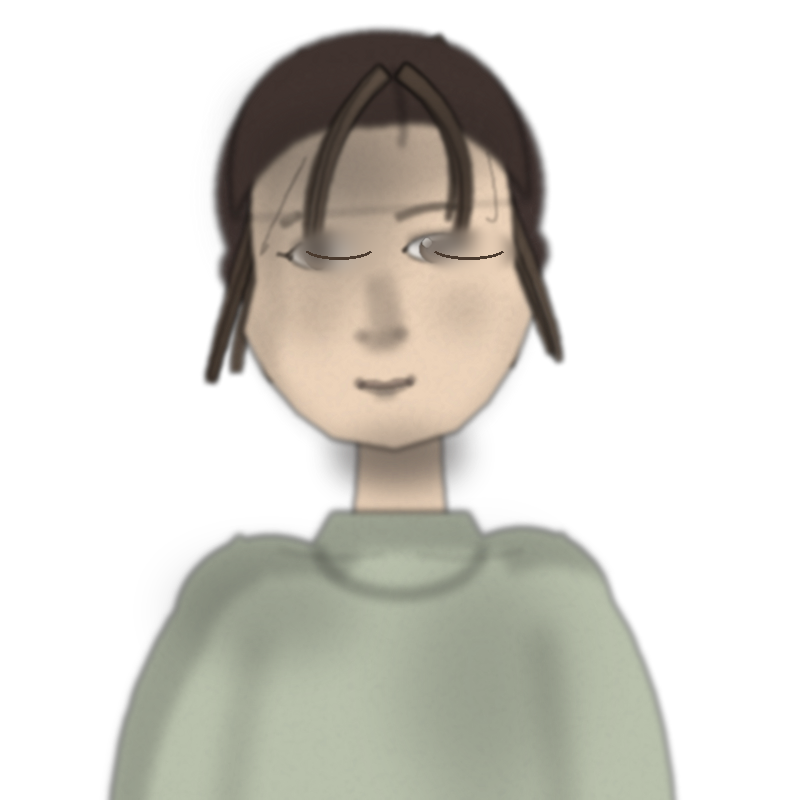
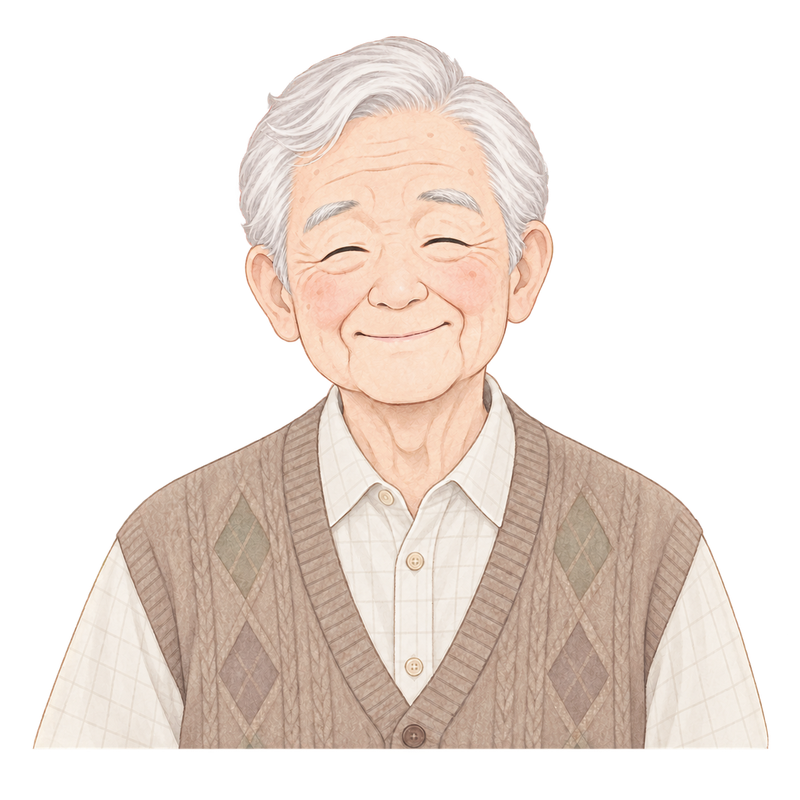
feat: customer-08を90代前半男性・ひ孫への出産祝いへ差し替え
- normal/blinkを、白髪・アーガイルベストのやさしい90代前半男性画像に
  差し替え。初回のキャンバス配置は右肩が800px枠ぎりぎりで切れていたため、
  customer-05のときと同様にオフセットを再調整（キャンバス中央基準の
  センタリングへ変更）。頭頂部・肩の切れなし、normal/blinkの位置・大きさ
  一致、瞬き時のガタつきなし、4季表示を確認済み。
- 画像に合わせて人物データを新設（①画像確定→②年齢・性別・生活背景固定→
  ③依頼設計 の順）。旧データ（そうたさん・20代・親友のお見舞い）を、
  しげるさん・90代前半・ひ孫への出産祝いに、に置き換え。customer-05
  （50代・娘を送り出す父親）とは世代・心情のトーンを明確に分けた。
- IMAGE_ASSETS.md §4の人物像列を新しいpersonaに合わせて更新。

Claude-Session: https://claude.ai/code/session_01NKV57SwEiDA72EkGzXeu8N

diff --git a/src/data/customers.ts b/src/data/customers.ts
@@ -360,43 +360,43 @@ export const CUSTOMERS: Customer[] = [
   },
   {
     id: 'customer-08',
-    name: 'そうたさん',
-    age: '20代',
-    persona: '入院中の親友のお見舞いに',
-    entrance: '何度か店の前を通り過ぎてから、意を決したように入ってきました。',
-    life: '学生時代からの親友が入院中。明日、面会に行くそうです。',
+    name: 'しげるさん',
+    age: '90代前半',
+    persona: 'おだやかで親しみやすい、ひ孫の誕生を楽しみにしている男性',
+    entrance: 'ゆっくりとした足取りで、にこにこと入ってきました。',
+    life: '来月、初めてのひ孫が生まれるそうです。',
     memo: [
-      '病室なので、香りの強すぎないものを。',
-      'あいつ、元気が出る花が好きなんです。',
+      '来月、ひ孫が生まれるんです。',
+      'その子への、初めての贈り物に。',
     ],
     lines: [
-      '入院している友人のところへ行くんです。',
-      '重たくならないように、でも元気が出るものがいいなと思って。',
-      '香りの強すぎないものにできますか。',
+      '来月、初めてのひ孫が生まれるんです。',
+      'その子への、初めての贈り物にしたくて。',
+      '赤ちゃんの部屋に飾れるような、やさしい花にできますか。',
     ],
-    purpose: 'お見舞い（親友へ）',
-    budget: 2200,
+    purpose: 'ひ孫への出産祝い',
+    budget: 2500,
     wish: {
-      impressions: ['gentle', 'bright'],
+      impressions: ['bright', 'gentle'],
       tones: ['warm', 'white'],
-      toneLabel: 'やさしくて、少し明るい色',
-      volume: 'small',
+      toneLabel: '赤ちゃんにも優しい、明るい色合い',
+      volume: 'medium',
     },
     reactions: {
       delighted: [
-        'これ、いいですね。あいつ、笑うと思います。',
-        'ありがとうございます。ちゃんと会ってきます。',
+        'おお、これはいい。……あの子への、いい贈り物になりそうです。',
+        'こんな年になっても、楽しみが増えるものですね。',
       ],
       happy: [
-        'やさしい感じですね。病室でも重たくならなそうです。',
-        'これなら、まっすぐ渡せそうです。',
+        'いいですねぇ。明るくて、気持ちが上がります。',
+        '赤ちゃんの部屋に置いても、良さそうです。',
       ],
       grateful: [
-        'ありがとうございます。持っていきますね。',
-        '相談に乗ってもらえて、落ち着きました。',
+        'ありがとうございます。初めての贈り物が、決まりました。',
+        'こうして選ぶのも、なかなか楽しいものですね。',
       ],
     },
-    farewell: '元気になったら、ふたりで寄りますね。',
+    farewell: 'また、ひ孫の顔でも見せに来ますね。',
   },
 ];
 

diff --git a/IMAGE_ASSETS.md b/IMAGE_ASSETS.md
@@ -177,7 +177,7 @@
 | `customer-05` | 家を出る娘を送り出す父親 |
 | `customer-06` | 上品でやさしい、旧友を大切にする女性 |
 | `customer-07` | 上品でおだやかな、長年連れ添った夫を持つ女性 |
-| `customer-08` | 入院中の親友 |
+| `customer-08` | おだやかで親しみやすい、ひ孫の誕生を楽しみにしている男性 |
 
 各表情: `-normal.png`（依頼を聞いているとき）／`-happy.png`（花束を受け取ったとき）
 
